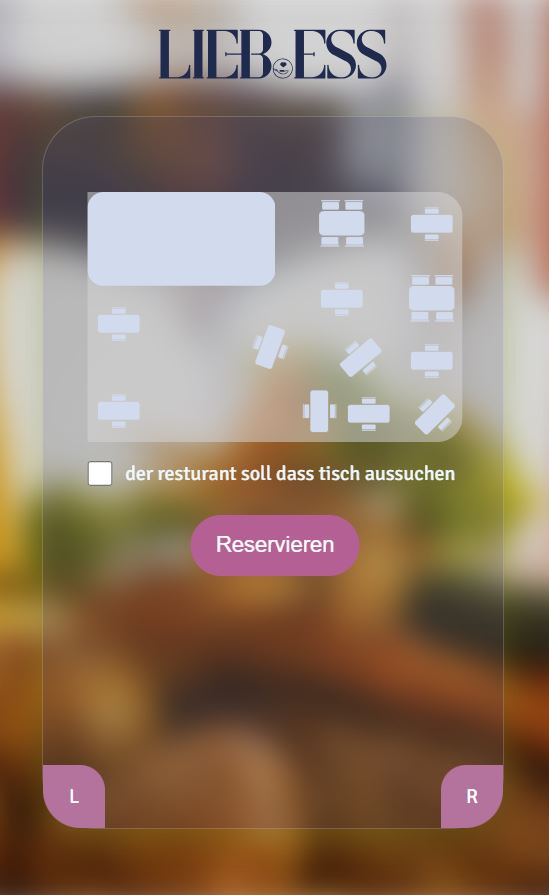
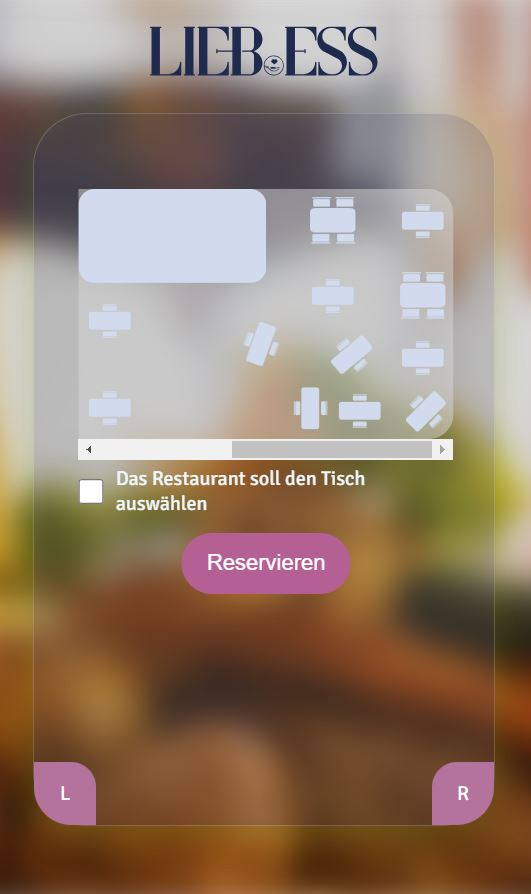
hot fix

diff --git a/static/index.html b/static/index.html
@@ -127,7 +127,7 @@
                 </div>
                 <div class="flex checkbox-wrapper">
                     <input type="checkbox" name="table-or-none" id="table-or-none">
-                    <label for="table-or-none">der resturant soll dass tisch aussuchen</label>
+                    <label for="table-or-none">Das Restaurant soll den Tisch auswählen</label>
                 </div>
                 <p id="table-name"></p>
                 <input min="1" max="15" type="text" name="table" id="table">
